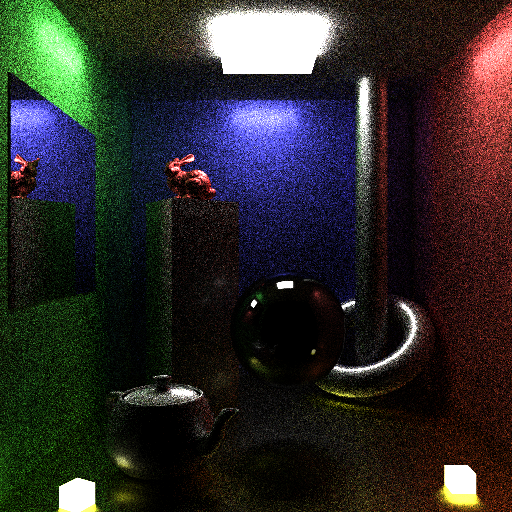
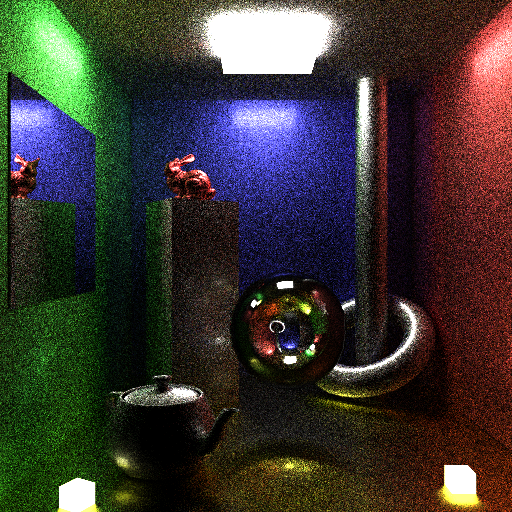
Fixed problem with glass materials and internal rays

diff --git a/src/MonteCarloRenderer.cpp b/src/MonteCarloRenderer.cpp
@@ -18,7 +18,7 @@ vec3 uncharted2Tonemap(const vec3 &x)
     return ((x*(A*x+C*B)+D*E)/(x*(A*x+B)+D*F))-E/F;
 }
 
-vec3 MonteCarloRenderer::radiance(const Ray &ray)
+vec3 MonteCarloRenderer::radiance(const Ray &ray, int depth)
 {
     vec3 rad;
 
@@ -40,30 +40,38 @@ vec3 MonteCarloRenderer::radiance(const Ray &ray)
 
         // check if the object is semi-transparent (guessing that no real object are perfect transparent)
         float opacity = material->getOpacity();
+
+        // make sure we have at least 4 bounces before there is a chance of termination
+        if ( depth < 4) {
+           limit = 1.0;
+        }
         
         if(r < limit)
         {
             if(inside) {
                 float snell = material->getRefractiveIndex() / AIR;
-                float neg = -1.0;
-                n = n*neg;
+                n = n*-1.0f;
                 vec3 origin;
                 vec3 newDirection;
+                f32 newRefractiveIndex;
 
-                float angle = acos(glm::dot(n, ray.direction * (float) -1.0));
-                float angle_lim = acos(ray.refractiveIndex/material->getRefractiveIndex());
+                float angle = acos(glm::dot(n, ray.direction * -1.0f));
+                float angle_lim = acos(snell);
+                origin = ray.origin + ray.direction*hit.distance;
                 if(angle > angle_lim) {
-					origin = ray.origin + ray.direction*hit.distance;
+                    newRefractiveIndex = material->getRefractiveIndex();
                     newDirection = glm::normalize(ray.direction - 2.0f * glm::dot(ray.direction,n) * n);
                 } else {
-					origin = ray.origin + ray.direction*hit.distance;
+                    newRefractiveIndex = AIR;
                     float thedot = glm::dot(n,ray.direction);
                     float factor = (snell * thedot - sqrt(1.0 - snell * snell *(1.0 - thedot*thedot)));
                     newDirection = glm::normalize(ray.direction*-snell + n * factor);
                 }
-                Ray extRay( origin, newDirection, material->getRefractiveIndex(), hit.index);
-                rad += material->getDiffuseColor()*radiance(extRay);  
+                Ray extRay( origin, newDirection, newRefractiveIndex, hit.index);
+                rad += material->getDiffuseColor()*radiance(extRay, depth +1);  
             } else {
+
+                // use the same r but normalize to be between 0->1
                 r = r / limit;
 
                 // calculate plane vectors
@@ -95,18 +103,16 @@ vec3 MonteCarloRenderer::radiance(const Ray &ray)
                     float thedot = glm::dot(n,ray.direction);
                     float factor = (snell * thedot - sqrt(1.0 - snell * snell *(1.0 - thedot*thedot)));
                     vec3 intDirection = glm::normalize(ray.direction*-snell + n * factor);
-                    //printf("hej hej");
                     Ray intRay(ray.origin + ray.direction*hit.distance, intDirection, material->getRefractiveIndex(), hit.index);
 
                     // calculate the totance emittance of this surface spot depending on tha opacity factor.
                     float invopacity = (1.0 - opacity);
                     if(opacity > 0.0)
-                        rad += material->getDiffuseColor()*radiance(extRay)*opacity;
-                    rad += material->getDiffuseColor()*radiance(intRay)*invopacity;
-					//rad = vec3(0,0,1);
+                        rad += material->getDiffuseColor()*radiance(extRay, depth +1)*opacity;
+                    rad += material->getDiffuseColor()*radiance(intRay, depth +1)*invopacity;
                     
                 } else {
-                    rad += material->getDiffuseColor()*radiance(extRay);   
+                    rad += material->getDiffuseColor()*radiance(extRay, depth +1);   
                 }
             }
         }
@@ -117,5 +123,5 @@ vec3 MonteCarloRenderer::radiance(const Ray &ray)
 
 inline vec3 MonteCarloRenderer::rayTraceBVH(const Ray &ray)
 {
-    return glm::sqrt(radiance(ray));
+    return glm::sqrt(radiance(ray,0));
 }

diff --git a/src/MonteCarloRenderer.h b/src/MonteCarloRenderer.h
@@ -9,7 +9,7 @@
 class MonteCarloRenderer : public RenderDevice
 {
 private:
-    vec3 radiance(const Ray &ray);
+    vec3 radiance(const Ray &ray, int depth);
     vec3 rayTraceBVH(const Ray &ray);
 };
 
